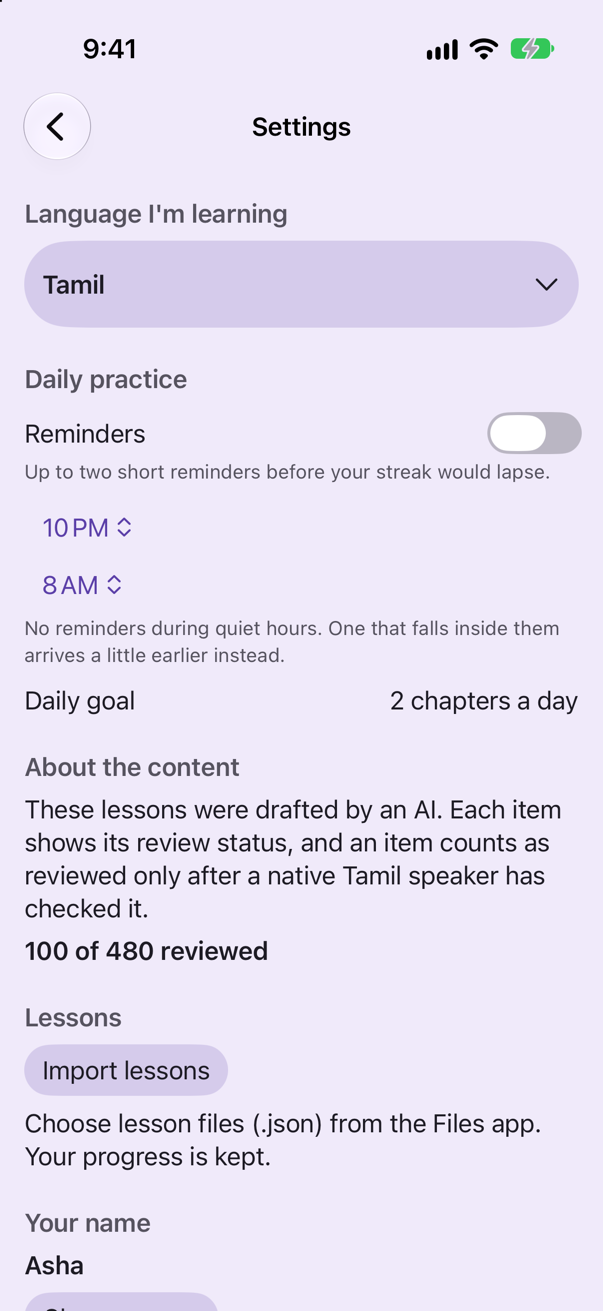
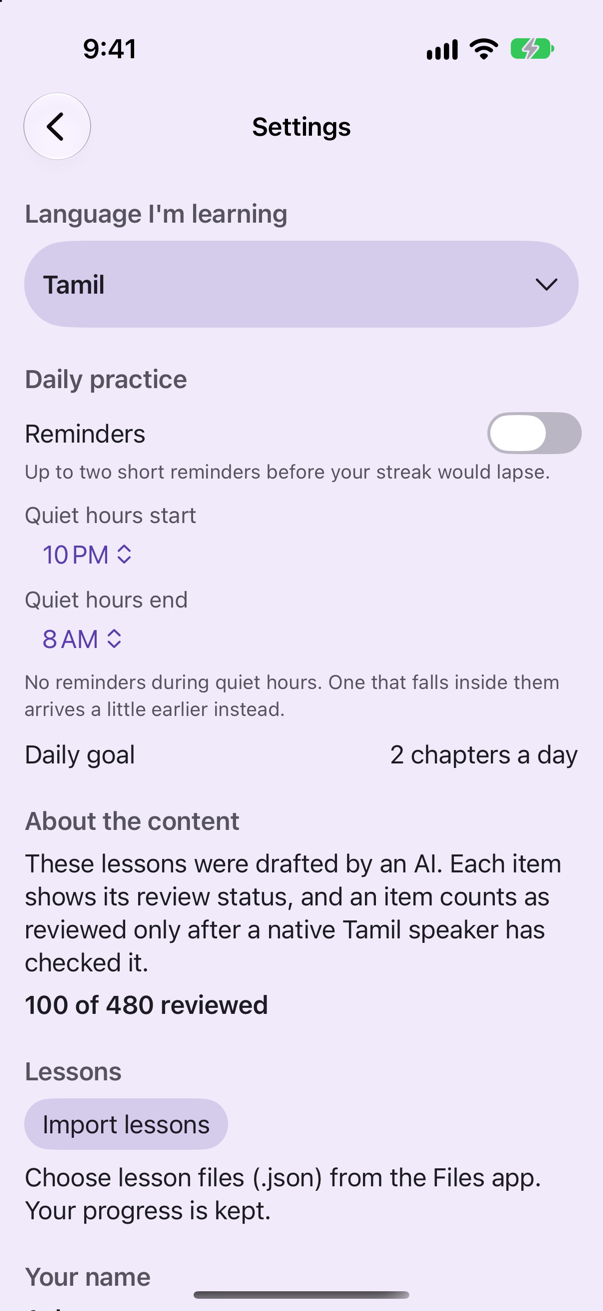
Settings: label the quiet-hours pickers (v0.4.2) (#45)
* Settings: label the quiet-hours pickers (v0.4.2)

The menu pickers showed only their times ('10 PM', '8 AM'), so it was unclear which was the start and which the end. Each now has its name above it as plain text; the picker keeps its VoiceOver label. CHANGELOG v0.4.2 and the README screenshot are updated.

* UI tests: allow the Daily practice labels behind the Change name sheet

The sheet audit also scans the dimmed Settings page. The new visible 'Quiet hours start' and 'Quiet hours end' labels, and the other Daily practice texts that can land there, are added to the narrow exception. Each is audited on its own by the Settings audits.

---------

diff --git a/Packages/BLTKit/Sources/BLTFeatures/Settings/DailyPracticeSection.swift b/Packages/BLTKit/Sources/BLTFeatures/Settings/DailyPracticeSection.swift
@@ -83,15 +83,23 @@ struct DailyPracticeSection: View {
         }
     }
 
+    /// A menu picker shows only its value outside a form, so its name is drawn above it as plain text. The picker
+    /// keeps its own title as its VoiceOver label ("Quiet hours start, 10 PM").
     private func hourPicker(_ title: String, selection: Binding<Int>, id: String) -> some View {
-        Picker(title, selection: selection) {
-            ForEach(0..<24, id: \.self) { hour in
-                Text(model.hourLabel(hour)).tag(hour)
+        VStack(alignment: .leading, spacing: 0) {
+            Text(title)
+                .font(.subheadline)
+                .foregroundStyle(Palette(colorScheme).textSecondaryColor)
+            Picker(title, selection: selection) {
+                ForEach(0..<24, id: \.self) { hour in
+                    Text(model.hourLabel(hour)).tag(hour)
+                }
             }
+            .pickerStyle(.menu)
+            .labelsHidden()
+            .disabled(!model.canChangeQuietHours)
+            .accessibilityIdentifier(id)
         }
-        .pickerStyle(.menu)
-        .disabled(!model.canChangeQuietHours)
-        .accessibilityIdentifier(id)
     }
 
     private var quietStartBinding: Binding<Int> {

diff --git a/BLTApp/BLTAppUITests/AccessibilityAuditCase.swift b/BLTApp/BLTAppUITests/AccessibilityAuditCase.swift
@@ -164,8 +164,13 @@ class AccessibilityAuditCase: BLTUITestCase {
     private static let behindSheetPrefixes = [
         "These lessons were drafted",
         "Every lesson was checked",
+        "Daily practice",
+        "Reminders",
         "Up to two short reminders",
+        "Quiet hours start",
+        "Quiet hours end",
         "No reminders during quiet hours",
+        "Daily goal",
         "Tamil",
         "Telugu"
     ]

diff --git a/CHANGELOG.md b/CHANGELOG.md
@@ -4,6 +4,11 @@ What changed in each version of blt.ai, newest first. These are project versions
 
 **How versions work.** `MINOR` goes up for a feature a learner can see or a change to how the app is built (v0.4.0 is daily practice). `PATCH` goes up for a fix, a content or documentation change, or a tooling change. Every pull request that changes behaviour, a screen, storage, or the docs adds a line here under the version it ships in, and updates the README (features and screenshots) when a screen or a capability changed. The standing rule is in [`CLAUDE.md`](CLAUDE.md). Git tags (`v0.4.0` and so on) mark the merge commit of each version.
 
+## v0.4.2 (2026-10-15): Quiet-hours pickers are labelled
+
+- Settings, Daily practice: the two quiet-hours pickers now show "Quiet hours start" and "Quiet hours end" above their times. Before, they showed only "10 PM" and "8 AM", so it was unclear which was which (VoiceOver already read the names).
+- README screenshot of the Daily practice settings retaken.
+
 ## v0.4.1 (2026-10-15): README shows daily practice
 
 - README: new screenshots of the streak, the Today card, the streak screen, the Daily practice settings and the reminder prompt (Tamil and Telugu Home each with their own streak); the module, storage and roadmap text now cover daily practice.
@@ -29,7 +34,7 @@ What changed in each version of blt.ai, newest first. These are project versions
 - Not yet seen on a real iPhone: notification delivery at +20 h and +23 h, the system permission dialog, file protection on `practice.json`.
 - On a fall-back night (25 hours between "the same time tomorrow") a streak breaks unless a freeze is held.
 - On the iPhone 17 simulator the two name-entry accessibility audits fail ("keyboard did not dismiss"); they pass on iPhone 17e and fail the same way on older code.
-- The two quiet-hours pickers in Settings show only their times; the "start" and "end" words are in the VoiceOver label but not on screen.
+- The two quiet-hours pickers in Settings show only their times; the "start" and "end" words are in the VoiceOver label but not on screen. (Fixed in v0.4.2.)
 
 ## v0.3.0 (2026-10-11 to 2026-10-12): Exam, Levels 1 and 2 for both courses (PRs #23 to #38)
 
